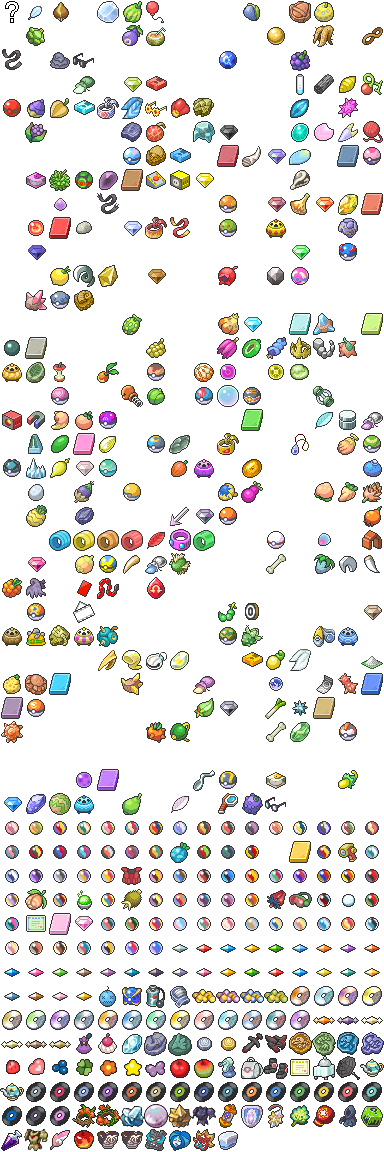
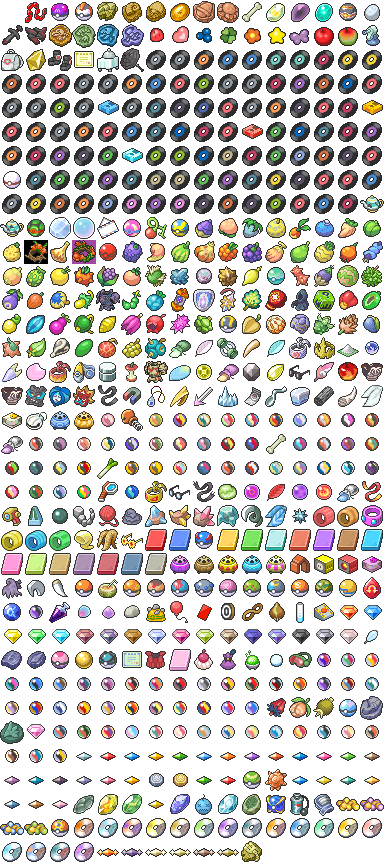
Updating sprites + misc credit updates

diff --git a/site/templates/home.html b/site/templates/home.html
@@ -64,11 +64,11 @@ __TEMPLATE_HEADER__
 
         <li><p>The wonderful Reportworm logo is by <a href="https://twitter.com/Chufflepop" target="_blank">Chufflepop</a>.</p></li>
 
-        <li><p>Small sprites come from <a href="https://play.pokemonshowdown.com/" target="_blank">Pokemon Showdown</a> (specifically the <a href="https://github.com/pkmn/ps" target="_blank">pkmn/ps</a> project, if you're interested), and teamsheet art is official Pokemon art, which have been helpfully collected in the <a href="https://github.com/PokeAPI/sprites" target="_blank">PokeAPI/sprites</a> repository.</p></li>
+        <li><p>Small sprites come from <a href="https://play.pokemonshowdown.com/" target="_blank">Pokemon Showdown</a> (specifically the <a href="https://github.com/smogon/sprites" target="_blank">smogon/sprites</a> repo), and teamsheet art is official Pokemon art, which have been helpfully collected in the <a href="https://github.com/PokeAPI/sprites" target="_blank">PokeAPI/sprites</a> repository.</p></li>
 
         <li><p>This site uses <a href="https://vuejs.org" target="_blank">Vue.js</a> for the front-end. Flag icons provided by <a href="https://flagicons.lipis.dev" target="_blank">Flag Icons</a>.</p></li>
 
-        <li><p>Reportworm proudly contains 0% AI generated code. Made in New York. Check out the <a href="https://github.com/mikewVGC/vgc-standings">the Github repo</a> if that interests you.</p></li>
+        <li><p>Reportworm proudly contains 0% AI generated code, and is made in New York. You can check out the <a href="https://github.com/mikewVGC/vgc-standings">the Github repo</a> if you're interested.</p></li>
     </ul>
 
 __TEMPLATE_FOOTER__

diff --git a/site/css/style.css b/site/css/style.css
@@ -308,14 +308,14 @@ table#favorites {
     width: 36px;
     height: 30px;
     display: inline-block;
-    background: url(/static/img/pokemonicons-sheet.png?3) no-repeat;
+    background: url(/static/img/pokemonicons-sheet.png?4) no-repeat;
     overflow: hidden;
     text-indent: -9999em;
     image-rendering: pixelated;
 }
 
 .itemicon {
-    background: url(/static/img/itemicons-sheet.png?2) no-repeat;
+    background: url(/static/img/itemicons-sheet.png?3) no-repeat;
     width: 24px;
     height: 24px;
 }

diff --git a/site/js/tournament.js b/site/js/tournament.js
@@ -752,7 +752,7 @@ export default {
         // for mons / items
         getSpritePos(name) {
             let pos = this.spriteCoords[name] || [ 0, 0 ];
-            return `-${pos[0] + 2}px -${pos[1]}px`;
+            return `-${pos[0]}px -${pos[1]}px`;
         },
 
         setHDItemCoords(data) {
